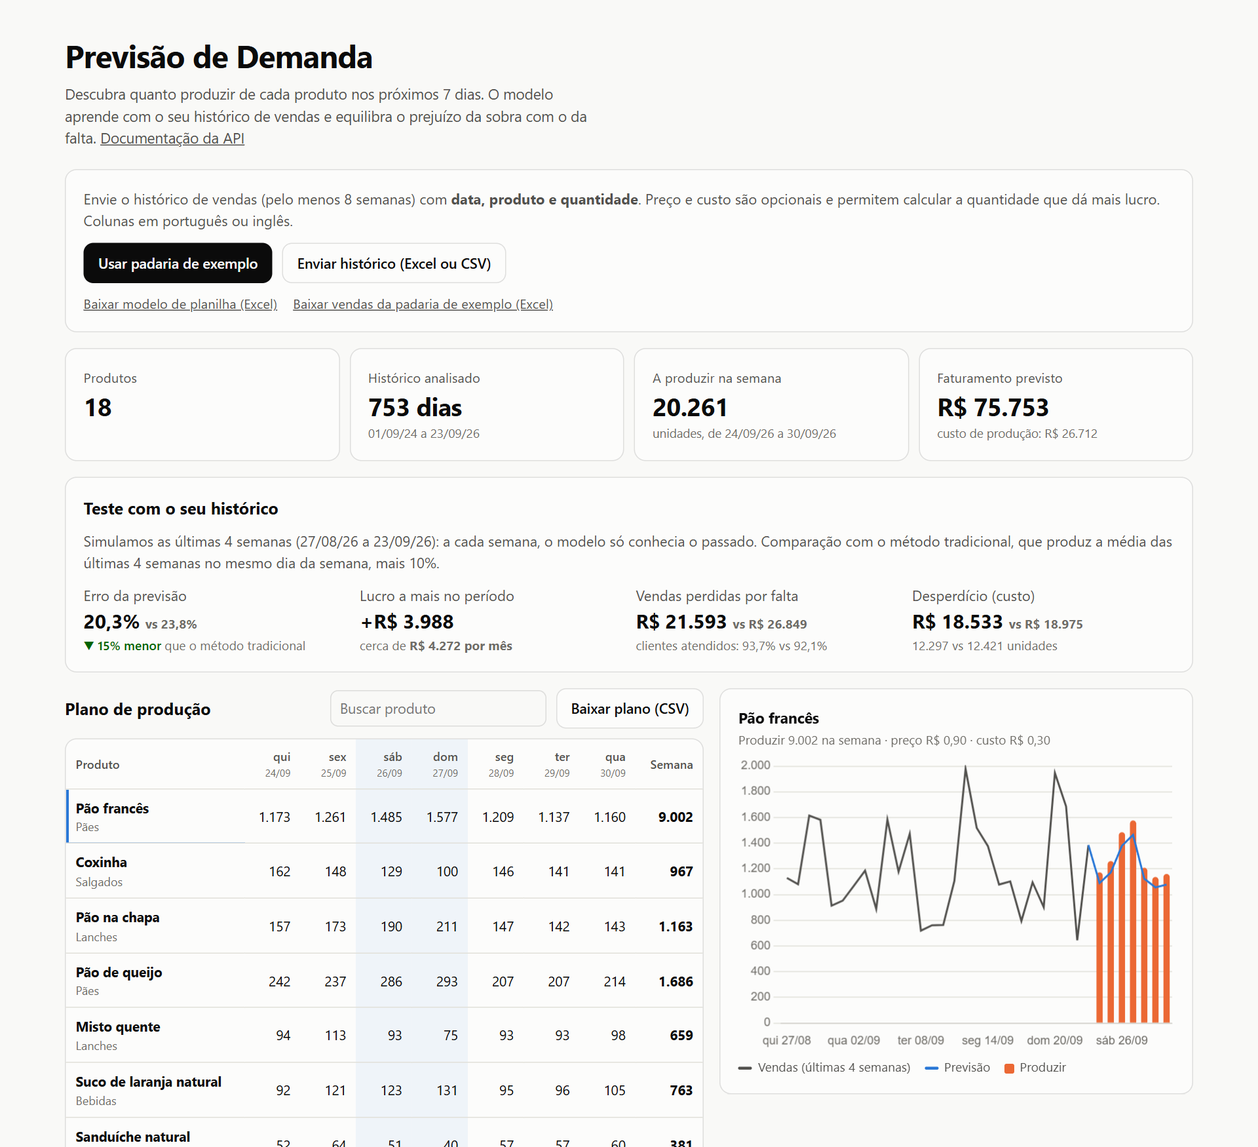
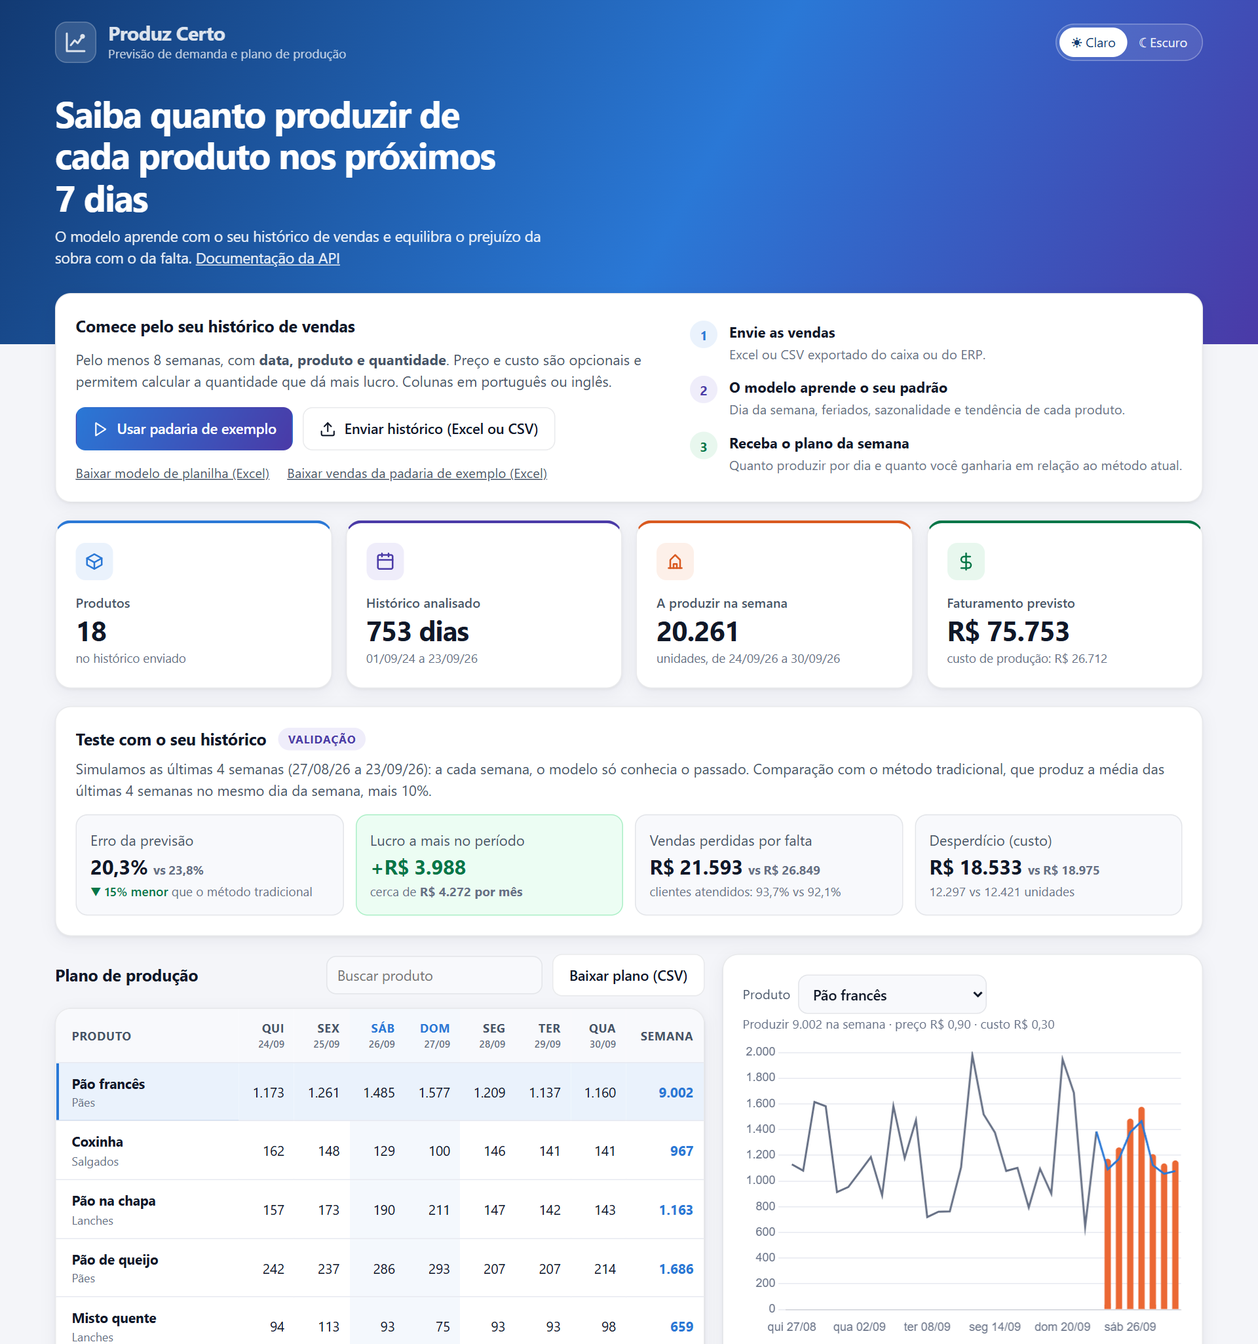
Novo visual: identidade Produz Certo, indicadores coloridos e tema claro ou escuro
Cabeçalho com nome do sistema, tela inicial com os três passos,
indicadores com cor e ícone, destaque para o ganho no teste com o
histórico, lista para escolher o produto do gráfico e botão de tema.

diff --git a/api/static/index.html b/api/static/index.html
@@ -3,116 +3,184 @@
 <head>
 <meta charset="utf-8">
 <meta name="viewport" content="width=device-width, initial-scale=1">
-<title>Previsão de Demanda</title>
+<title>Produz Certo · Previsão de Demanda</title>
 <meta name="description" content="Descubra quanto produzir de cada produto nos próximos 7 dias a partir do seu histórico de vendas.">
 <script>try{const t=localStorage.getItem('tema');if(t)document.documentElement.dataset.theme=t;}catch(e){}</script>
 <style>
 :root{
   color-scheme:light;
-  --page:#f9f9f7; --surface:#fcfcfb; --ink:#0b0b0b; --ink-2:#52514e; --muted:#6f6d68;
-  --line:#e1e0d9; --border:rgba(11,11,11,.12); --s1:#2a78d6; --s2:#eb6834; --hist:#52514e;
-  --good:#006300; --crit:#d03b3b; --wk:rgba(42,120,214,.06);
+  --page:#f4f5f9; --surface:#ffffff; --surface-2:#f8f9fc; --ink:#101828; --ink-2:#475467; --muted:#667085;
+  --line:#e7e9f0; --border:rgba(16,24,40,.09); --shadow:0 1px 2px rgba(16,24,40,.05),0 4px 16px rgba(16,24,40,.06);
+  --brand:#2a78d6; --brand-2:#4a3aa7; --s1:#2a78d6; --s2:#eb6834; --hist:#667085;
+  --good:#067647; --good-bg:#ecfdf3; --good-line:#abefc6; --crit:#d03b3b; --wk:rgba(42,120,214,.05);
+  --t1:#2a78d6; --t1-bg:#eaf2fc; --t2:#4a3aa7; --t2-bg:#efedfa; --t3:#d9591f; --t3-bg:#fdf0e9; --t4:#067647; --t4-bg:#e8f7ee;
+  --hero:linear-gradient(120deg,#123a73 0%,#2a78d6 55%,#4a3aa7 100%);
 }
 @media (prefers-color-scheme:dark){
   :root:where(:not([data-theme="light"])){
     color-scheme:dark;
-    --page:#0d0d0d; --surface:#1a1a19; --ink:#fff; --ink-2:#c3c2b7; --muted:#9a988f;
-    --line:#2c2c2a; --border:rgba(255,255,255,.12); --s1:#3987e5; --s2:#d95926; --hist:#c3c2b7;
-    --good:#0ca30c; --crit:#e66767; --wk:rgba(57,135,229,.10);
+    --page:#0b0c10; --surface:#15171c; --surface-2:#1b1e24; --ink:#f2f4f7; --ink-2:#c3c7cf; --muted:#98a2b3;
+    --line:#262a32; --border:rgba(255,255,255,.08); --shadow:0 1px 2px rgba(0,0,0,.4),0 6px 20px rgba(0,0,0,.35);
+    --brand:#3987e5; --brand-2:#9085e9; --s1:#3987e5; --s2:#d95926; --hist:#98a2b3;
+    --good:#32d583; --good-bg:rgba(50,213,131,.10); --good-line:rgba(50,213,131,.30); --crit:#e66767; --wk:rgba(57,135,229,.08);
+    --t1:#5b9cf0; --t1-bg:rgba(57,135,229,.14); --t2:#a79cf0; --t2-bg:rgba(144,133,233,.14); --t3:#f08a55; --t3-bg:rgba(217,89,38,.16); --t4:#32d583; --t4-bg:rgba(50,213,131,.12);
+    --hero:linear-gradient(120deg,#0d2547 0%,#1c4f93 55%,#3a2f86 100%);
   }
 }
 :root[data-theme="dark"]{
   color-scheme:dark;
-  --page:#0d0d0d; --surface:#1a1a19; --ink:#fff; --ink-2:#c3c2b7; --muted:#9a988f;
-  --line:#2c2c2a; --border:rgba(255,255,255,.12); --s1:#3987e5; --s2:#d95926; --hist:#c3c2b7;
-  --good:#0ca30c; --crit:#e66767; --wk:rgba(57,135,229,.10);
+  --page:#0b0c10; --surface:#15171c; --surface-2:#1b1e24; --ink:#f2f4f7; --ink-2:#c3c7cf; --muted:#98a2b3;
+  --line:#262a32; --border:rgba(255,255,255,.08); --shadow:0 1px 2px rgba(0,0,0,.4),0 6px 20px rgba(0,0,0,.35);
+  --brand:#3987e5; --brand-2:#9085e9; --s1:#3987e5; --s2:#d95926; --hist:#98a2b3;
+  --good:#32d583; --good-bg:rgba(50,213,131,.10); --good-line:rgba(50,213,131,.30); --crit:#e66767; --wk:rgba(57,135,229,.08);
+  --t1:#5b9cf0; --t1-bg:rgba(57,135,229,.14); --t2:#a79cf0; --t2-bg:rgba(144,133,233,.14); --t3:#f08a55; --t3-bg:rgba(217,89,38,.16); --t4:#32d583; --t4-bg:rgba(50,213,131,.12);
+  --hero:linear-gradient(120deg,#0d2547 0%,#1c4f93 55%,#3a2f86 100%);
 }
 *{box-sizing:border-box;margin:0}
 [hidden]{display:none!important}
-body{background:var(--page);color:var(--ink);font:15px/1.5 system-ui,-apple-system,"Segoe UI",sans-serif}
-.wrap{max-width:1180px;margin:0 auto;padding:32px 16px 48px}
-h1{font-size:clamp(1.5rem,3.5vw,2rem);letter-spacing:-.02em}
-h2{font-size:1.05rem;margin-bottom:10px}
-.sub{color:var(--ink-2);margin:4px 0 20px;max-width:68ch}
-.sub a,.links a,footer a{color:var(--ink-2)}
-.card{background:var(--surface);border:1px solid var(--border);border-radius:12px;padding:18px}
+body{background:var(--page);color:var(--ink);font:15px/1.5 "Segoe UI",system-ui,-apple-system,sans-serif}
+.wrap{max-width:1200px;margin:0 auto;padding:0 16px 48px}
+h2{font-size:1.05rem;margin-bottom:10px;letter-spacing:-.01em}
+button{font:inherit;cursor:pointer}
+a{color:inherit}
+
+/* ---------- cabeçalho ---------- */
+.hero{background:var(--hero);color:#fff;padding:22px 0 76px;margin-bottom:-52px}
+.hero .wrap{padding-bottom:0}
+.hero-top{display:flex;justify-content:space-between;align-items:center;gap:12px}
+.marca{display:flex;align-items:center;gap:12px;text-decoration:none}
+.logo{width:42px;height:42px;border-radius:12px;background:rgba(255,255,255,.16);border:1px solid rgba(255,255,255,.25);display:grid;place-items:center}
+.logo svg{width:24px;height:24px}
+.marca b{display:block;font-size:1.25rem;letter-spacing:-.02em;line-height:1.1}
+.marca span{font-size:.8rem;opacity:.85}
+.tema{display:inline-flex;border:1px solid rgba(255,255,255,.28);border-radius:999px;padding:3px;background:rgba(255,255,255,.10)}
+.tema button{border:0;background:none;color:rgba(255,255,255,.9);font-size:.82rem;padding:5px 12px;border-radius:999px}
+.tema button[aria-pressed="true"]{background:#fff;color:#123a73}
+.hero h1{font-size:clamp(1.6rem,3.6vw,2.3rem);letter-spacing:-.03em;line-height:1.15;margin:30px 0 8px;max-width:22ch}
+.hero p{max-width:62ch;opacity:.9}
+.hero p a{color:#fff}
+
+/* ---------- cartões e botões ---------- */
+.card{background:var(--surface);border:1px solid var(--border);border-radius:16px;padding:20px;box-shadow:var(--shadow)}
 .rec{color:var(--ink-2);font-size:.92rem}
 .acoes{display:flex;flex-wrap:wrap;gap:10px;align-items:center}
-button{font:inherit;cursor:pointer}
-.btn{border:1px solid var(--border);background:var(--surface);color:var(--ink);border-radius:10px;padding:9px 14px;font-weight:600;font-size:.9rem}
-.btn.pri{background:var(--ink);color:var(--surface);border-color:var(--ink)}
-.btn:disabled{opacity:.5;cursor:wait}
-.links{display:flex;flex-wrap:wrap;gap:16px;font-size:.85rem;margin-top:10px}
+.btn{display:inline-flex;align-items:center;gap:8px;border:1px solid var(--border);background:var(--surface);color:var(--ink);border-radius:10px;padding:10px 16px;font-weight:600;font-size:.9rem;transition:transform .12s,box-shadow .12s}
+.btn:hover{transform:translateY(-1px);box-shadow:var(--shadow)}
+.btn.pri{background:linear-gradient(120deg,var(--brand),var(--brand-2));color:#fff;border-color:transparent}
+.btn:disabled{opacity:.55;cursor:wait;transform:none}
+.btn svg{width:17px;height:17px}
+.links{display:flex;flex-wrap:wrap;gap:18px;font-size:.85rem;margin-top:12px}
+.links a{color:var(--ink-2)}
 .cont{color:var(--muted);font-size:.8rem}
 .erro{border:1px solid var(--crit);border-radius:10px;padding:10px 12px;margin-top:12px;font-size:.9rem}
-.mapa{margin-top:14px;border-top:1px solid var(--line);padding-top:14px}
+.mapa{margin-top:16px;border-top:1px solid var(--line);padding-top:16px}
 .fields{display:grid;grid-template-columns:repeat(auto-fit,minmax(200px,1fr));gap:10px;margin:12px 0}
 label{display:grid;gap:4px;font-size:.82rem;color:var(--ink-2)}
-select,input{font:inherit;font-size:.9rem;color:var(--ink);background:var(--page);border:1px solid var(--border);border-radius:8px;padding:7px 9px;width:100%}
-.kpis{display:grid;grid-template-columns:repeat(auto-fit,minmax(190px,1fr));gap:10px;margin:16px 0}
-.kpi .lbl{color:var(--ink-2);font-size:.85rem}
-.kpi .v{font-size:1.6rem;font-weight:700;letter-spacing:-.02em}
+select,input{font:inherit;font-size:.9rem;color:var(--ink);background:var(--surface-2);border:1px solid var(--border);border-radius:10px;padding:8px 10px;width:100%}
+.envio{display:grid;grid-template-columns:minmax(0,1.2fr) minmax(0,1fr);gap:24px;align-items:center}
+.passos{display:grid;gap:12px;list-style:none;padding:0}
+.passos li{display:flex;gap:12px;align-items:flex-start}
+.passos .n{flex:0 0 28px;height:28px;border-radius:50%;display:grid;place-items:center;font-weight:700;font-size:.85rem;background:var(--t1-bg);color:var(--t1)}
+.passos li:nth-child(2) .n{background:var(--t2-bg);color:var(--t2)}
+.passos li:nth-child(3) .n{background:var(--t4-bg);color:var(--t4)}
+.passos b{display:block;font-size:.92rem}
+.passos span{color:var(--muted);font-size:.84rem}
+.carregando{display:flex;gap:10px;align-items:center;color:var(--ink-2);margin-top:16px}
+.spin{width:16px;height:16px;border:2px solid var(--line);border-top-color:var(--brand);border-radius:50%;animation:g 1s linear infinite}
+@keyframes g{to{transform:rotate(360deg)}}
+
+/* ---------- indicadores ---------- */
+.kpis{display:grid;grid-template-columns:repeat(auto-fit,minmax(210px,1fr));gap:14px;margin:18px 0}
+.kpi{position:relative;overflow:hidden;border-top:3px solid var(--c)}
+.kpi .ico{width:38px;height:38px;border-radius:10px;display:grid;place-items:center;background:var(--cb);color:var(--c);margin-bottom:12px}
+.kpi .ico svg{width:20px;height:20px}
+.kpi .lbl{color:var(--ink-2);font-size:.84rem;font-weight:600}
+.kpi .v{font-size:1.75rem;font-weight:700;letter-spacing:-.02em;line-height:1.2;margin:2px 0}
 .kpi .d{color:var(--muted);font-size:.78rem}
-.comp{margin-bottom:16px}
-.comp-grid{display:grid;grid-template-columns:repeat(auto-fit,minmax(210px,1fr));gap:14px;margin-top:10px}
-.comp-grid .v{font-size:1.25rem;font-weight:700}
+.kpi.c1{--c:var(--t1);--cb:var(--t1-bg)} .kpi.c2{--c:var(--t2);--cb:var(--t2-bg)}
+.kpi.c3{--c:var(--t3);--cb:var(--t3-bg)} .kpi.c4{--c:var(--t4);--cb:var(--t4-bg)}
+
+/* ---------- teste com o histórico ---------- */
+.comp{margin-bottom:18px}
+.comp-cab{display:flex;gap:12px;align-items:center;margin-bottom:6px}
+.selo{font-size:.72rem;font-weight:700;letter-spacing:.04em;text-transform:uppercase;color:var(--t2);background:var(--t2-bg);border-radius:999px;padding:3px 10px}
+.comp-grid{display:grid;grid-template-columns:repeat(auto-fit,minmax(220px,1fr));gap:12px;margin-top:14px}
+.comp-grid>div{background:var(--surface-2);border:1px solid var(--border);border-radius:12px;padding:14px}
+.comp-grid .destaque{background:var(--good-bg);border-color:var(--good-line)}
+.comp-grid .destaque .v{color:var(--good)}
+.comp-grid .v{font-size:1.3rem;font-weight:700;letter-spacing:-.01em}
 .comp-grid .d{color:var(--muted);font-size:.8rem}
 .up{color:var(--good);font-weight:600}
-.grid2{display:grid;grid-template-columns:minmax(0,1.35fr) minmax(0,1fr);gap:16px;align-items:start}
-.barra{display:flex;flex-wrap:wrap;gap:10px;align-items:center;justify-content:space-between;margin-bottom:10px}
+
+/* ---------- plano e gráfico ---------- */
+.grid2{display:grid;grid-template-columns:minmax(0,1.35fr) minmax(0,1fr);gap:18px;align-items:start}
+.barra{display:flex;flex-wrap:wrap;gap:10px;align-items:center;justify-content:space-between;margin-bottom:12px}
 .busca{width:220px}
-.tbl{overflow-x:auto;border:1px solid var(--border);border-radius:12px;background:var(--surface)}
+.tbl{overflow-x:auto;border:1px solid var(--border);border-radius:16px;background:var(--surface);box-shadow:var(--shadow)}
 table{width:100%;border-collapse:collapse;font-size:.86rem}
-th,td{padding:8px 10px;border-bottom:1px solid var(--line);text-align:right;white-space:nowrap}
-th:first-child,td:first-child{text-align:left;white-space:normal}
-th{color:var(--ink-2);font-size:.76rem;font-weight:600}
-th small{display:block;font-weight:400;color:var(--muted)}
+th,td{padding:10px 10px;border-bottom:1px solid var(--line);text-align:right;white-space:nowrap}
+th:first-child,td:first-child{text-align:left;white-space:normal;padding-left:16px}
+th{color:var(--ink-2);font-size:.76rem;font-weight:700;background:var(--surface-2);text-transform:uppercase;letter-spacing:.03em}
+th small{display:block;font-weight:500;color:var(--muted);text-transform:none;letter-spacing:0}
 td,th{font-variant-numeric:tabular-nums}
 .fds{background:var(--wk)}
-tbody tr{cursor:pointer}
+th.fds{color:var(--brand)}
+tbody tr{cursor:pointer;transition:background .12s}
 tbody tr:hover td{background:var(--wk)}
-tbody tr[aria-selected="true"] td:first-child{box-shadow:inset 3px 0 0 var(--s1)}
+tbody tr[aria-selected="true"] td{background:var(--t1-bg)}
+tbody tr[aria-selected="true"] td:first-child{box-shadow:inset 3px 0 0 var(--brand)}
 tr:last-child td{border-bottom:0}
-td.tot{font-weight:700}
+td.tot{font-weight:700;color:var(--brand)}
 .cat{display:block;color:var(--muted);font-size:.75rem}
 .graf{position:sticky;top:16px}
-.graf h3{font-size:.95rem}
-.box{position:relative;height:300px;margin-top:8px}
-.legenda{display:flex;flex-wrap:wrap;gap:14px;font-size:.8rem;color:var(--ink-2);margin-top:6px}
+.graf-topo{display:flex;gap:10px;align-items:center;justify-content:space-between;flex-wrap:wrap}
+.graf-topo select{width:auto;max-width:100%;font-weight:600}
+.box{position:relative;height:300px;margin-top:10px}
+.legenda{display:flex;flex-wrap:wrap;gap:14px;font-size:.8rem;color:var(--ink-2);margin-top:8px}
 .legenda i{display:inline-block;width:14px;height:3px;border-radius:2px;vertical-align:middle;margin-right:6px}
 .legenda i.bar{height:10px;width:10px;border-radius:2px}
 .dica{color:var(--muted);font-size:.8rem;margin-top:8px}
-.carregando{display:flex;gap:10px;align-items:center;color:var(--ink-2);margin-top:16px}
-.spin{width:16px;height:16px;border:2px solid var(--line);border-top-color:var(--s1);border-radius:50%;animation:g 1s linear infinite}
-@keyframes g{to{transform:rotate(360deg)}}
-footer{margin-top:28px;color:var(--muted);font-size:.8rem;max-width:90ch}
-.topo{display:flex;justify-content:space-between;align-items:flex-start;gap:12px}
-.tema{display:inline-flex;border:1px solid var(--border);border-radius:999px;padding:3px;background:var(--surface);flex:0 0 auto}
-.tema button{border:0;background:none;color:var(--ink-2);font-size:.82rem;padding:5px 12px;border-radius:999px}
-.tema button[aria-pressed="true"]{background:var(--ink);color:var(--surface)}
-.graf-topo{display:flex;gap:10px;align-items:center;justify-content:space-between;flex-wrap:wrap}
-.graf-topo select{width:auto;max-width:100%;font-weight:600}
-@media (max-width:900px){.grid2{grid-template-columns:1fr}.graf{position:static}}
+footer{margin-top:32px;padding-top:18px;border-top:1px solid var(--line);color:var(--muted);font-size:.8rem;display:flex;flex-wrap:wrap;gap:8px 24px;justify-content:space-between}
+footer p{max-width:80ch}
+@media (max-width:900px){.grid2,.envio{grid-template-columns:1fr}.graf{position:static}}
 </style>
 </head>
 <body>
-<div class="wrap">
-  <div class="topo">
-    <h1>Previsão de Demanda</h1>
-    <div class="tema" role="group" aria-label="Tema">
-      <button type="button" data-tema="light">☀ Claro</button>
-      <button type="button" data-tema="dark">☾ Escuro</button>
+<header class="hero">
+  <div class="wrap">
+    <div class="hero-top">
+      <a class="marca" href="/">
+        <span class="logo"><svg viewBox="0 0 24 24" fill="none" stroke="#fff" stroke-width="2" stroke-linecap="round" stroke-linejoin="round"><path d="M3 3v18h18"/><path d="M7 15l4-5 3 3 5-7"/><circle cx="19" cy="6" r="1.4" fill="#fff"/></svg></span>
+        <span><b>Produz Certo</b><span>Previsão de demanda e plano de produção</span></span>
+      </a>
+      <div class="tema" role="group" aria-label="Tema">
+        <button type="button" data-tema="light">☀ Claro</button>
+        <button type="button" data-tema="dark">☾ Escuro</button>
+      </div>
     </div>
+    <h1>Saiba quanto produzir de cada produto nos próximos 7 dias</h1>
+    <p>O modelo aprende com o seu histórico de vendas e equilibra o prejuízo da sobra com o da falta. <a href="/docs">Documentação da API</a></p>
   </div>
-  <p class="sub">Descubra quanto produzir de cada produto nos próximos 7 dias. O modelo aprende com o seu histórico de vendas e equilibra o prejuízo da sobra com o da falta. <a href="/docs">Documentação da API</a></p>
+</header>
 
+<div class="wrap">
   <div class="card">
-    <p class="rec" style="margin-bottom:12px">Envie o histórico de vendas (pelo menos 8 semanas) com <strong>data, produto e quantidade</strong>. Preço e custo são opcionais e permitem calcular a quantidade que dá mais lucro. Colunas em português ou inglês.</p>
-    <div class="acoes">
-      <button class="btn pri" id="usar-exemplo">Usar padaria de exemplo</button>
-      <label class="btn" style="display:inline-flex;cursor:pointer">Enviar histórico (Excel ou CSV)<input type="file" id="arquivo" accept=".xlsx,.xls,.csv,text/csv" hidden></label>
+    <div class="envio">
+      <div>
+        <h2>Comece pelo seu histórico de vendas</h2>
+        <p class="rec" style="margin-bottom:16px">Pelo menos 8 semanas, com <strong>data, produto e quantidade</strong>. Preço e custo são opcionais e permitem calcular a quantidade que dá mais lucro. Colunas em português ou inglês.</p>
+        <div class="acoes">
+          <button class="btn pri" id="usar-exemplo"><svg viewBox="0 0 24 24" fill="none" stroke="currentColor" stroke-width="2" stroke-linecap="round" stroke-linejoin="round"><path d="M5 3l14 9-14 9V3z"/></svg>Usar padaria de exemplo</button>
+          <label class="btn" style="cursor:pointer"><svg viewBox="0 0 24 24" fill="none" stroke="currentColor" stroke-width="2" stroke-linecap="round" stroke-linejoin="round"><path d="M21 15v4a2 2 0 0 1-2 2H5a2 2 0 0 1-2-2v-4"/><path d="M17 8l-5-5-5 5"/><path d="M12 3v12"/></svg>Enviar histórico (Excel ou CSV)<input type="file" id="arquivo" accept=".xlsx,.xls,.csv,text/csv" hidden></label>
+        </div>
+        <div class="links"><a href="/modelo-planilha.xlsx">Baixar modelo de planilha (Excel)</a><a href="/base-exemplo.xlsx">Baixar vendas da padaria de exemplo (Excel)</a></div>
+      </div>
+      <ol class="passos">
+        <li><span class="n">1</span><div><b>Envie as vendas</b><span>Excel ou CSV exportado do caixa ou do ERP.</span></div></li>
+        <li><span class="n">2</span><div><b>O modelo aprende o seu padrão</b><span>Dia da semana, feriados, sazonalidade e tendência de cada produto.</span></div></li>
+        <li><span class="n">3</span><div><b>Receba o plano da semana</b><span>Quanto produzir por dia e quanto você ganharia em relação ao método atual.</span></div></li>
+      </ol>
     </div>
-    <div class="links"><a href="/modelo-planilha.xlsx">Baixar modelo de planilha (Excel)</a><a href="/base-exemplo.xlsx">Baixar vendas da padaria de exemplo (Excel)</a></div>
     <div class="erro" id="erro" hidden></div>
     <form class="mapa" id="mapa" hidden>
       <h2>Correspondência de colunas</h2>
@@ -157,7 +225,10 @@ footer{margin-top:28px;color:var(--muted);font-size:.8rem;max-width:90ch}
     </div>
   </div>
 
-  <footer>Como funciona: um modelo LightGBM aprende, com o histórico enviado, o padrão de cada produto por dia da semana, feriados, sazonalidade e tendência. A quantidade recomendada fica um pouco acima ou abaixo da previsão conforme a margem do produto: quando a margem é alta, faltar custa mais do que sobrar. A padaria de exemplo tem dados fictícios.</footer>
+  <footer>
+    <p>Como funciona: um modelo LightGBM aprende, com o histórico enviado, o padrão de cada produto por dia da semana, feriados, sazonalidade e tendência. A quantidade recomendada fica um pouco acima ou abaixo da previsão conforme a margem do produto: quando a margem é alta, faltar custa mais do que sobrar. A padaria de exemplo tem dados fictícios.</p>
+    <span>Produz Certo · <a href="https://github.com/myttrindade/previsao-demanda">código no GitHub</a></span>
+  </footer>
 </div>
 
 <script src="https://cdn.jsdelivr.net/npm/chart.js@4.4.4/dist/chart.umd.min.js"></script>
@@ -250,22 +321,24 @@ $('mapa').addEventListener('submit', e => {
   executar('/planejar', '/comparar', () => ({method: 'POST', body: formulario()}));
 });
 
+const ICONES = {"produtos": "<path d=\"M21 8l-9-5-9 5 9 5 9-5z\"/><path d=\"M3 8v8l9 5 9-5V8\"/><path d=\"M12 13v8\"/>", "historico": "<rect x=\"3\" y=\"4\" width=\"18\" height=\"17\" rx=\"2\"/><path d=\"M16 2v4M8 2v4M3 10h18\"/>", "produzir": "<path d=\"M4 20h16\"/><path d=\"M6 20V10l6-6 6 6v10\"/><path d=\"M10 20v-5h4v5\"/>", "faturamento": "<path d=\"M12 2v20\"/><path d=\"M17 6H9.5a3.5 3.5 0 0 0 0 7h5a3.5 3.5 0 0 1 0 7H6\"/>"};
 function desenharResumo() {
   const r = plano.resumo;
   const tiles = [
-    ['Produtos', num(r.produtos), ''],
-    ['Histórico analisado', `${num(r.dias_historico)} dias`, `${dataBR(r.historico_inicio)} a ${dataBR(r.historico_fim)}`],
-    ['A produzir na semana', num(r.total_produzir), `unidades, de ${dataBR(plano.dias[0])} a ${dataBR(plano.dias.at(-1))}`],
+    ['c1', 'produtos', 'Produtos', num(r.produtos), 'no histórico enviado'],
+    ['c2', 'historico', 'Histórico analisado', `${num(r.dias_historico)} dias`, `${dataBR(r.historico_inicio)} a ${dataBR(r.historico_fim)}`],
+    ['c3', 'produzir', 'A produzir na semana', num(r.total_produzir), `unidades, de ${dataBR(plano.dias[0])} a ${dataBR(plano.dias.at(-1))}`],
   ];
-  if (r.tem_precos) tiles.push(['Faturamento previsto', brl(r.faturamento_previsto), `custo de produção: ${brl(r.custo_producao)}`]);
-  $('kpis').innerHTML = tiles.map(([l, v, d]) =>
-    `<div class="card kpi"><div class="lbl">${l}</div><div class="v">${v}</div><div class="d">${d}</div></div>`).join('');
+  if (r.tem_precos) tiles.push(['c4', 'faturamento', 'Faturamento previsto', brl(r.faturamento_previsto), `custo de produção: ${brl(r.custo_producao)}`]);
+  $('kpis').innerHTML = tiles.map(([cor, ico, l, v, d]) => `<div class="card kpi ${cor}">
+      <div class="ico"><svg viewBox="0 0 24 24" fill="none" stroke="currentColor" stroke-width="2" stroke-linecap="round" stroke-linejoin="round">${ICONES[ico]}</svg></div>
+      <div class="lbl">${l}</div><div class="v">${v}</div><div class="d">${d}</div></div>`).join('');
 }
 
 function desenharComparacao(c) {
-  if (!c.disponivel) { $('comparacao').innerHTML = `<h2>Teste com o seu histórico</h2><p class="rec">${esc(c.motivo)}</p>`; return; }
+  if (!c.disponivel) { $('comparacao').innerHTML = `<div class="comp-cab"><h2 style="margin:0">Teste com o seu histórico</h2><span class="selo">Validação</span></div><p class="rec">${esc(c.motivo)}</p>`; return; }
   const melhora = (c.erro_tradicional - c.erro_modelo) / c.erro_tradicional;
-  let html = `<h2>Teste com o seu histórico</h2>
+  let html = `<div class="comp-cab"><h2 style="margin:0">Teste com o seu histórico</h2><span class="selo">Validação</span></div>
     <p class="rec">Simulamos as últimas ${c.semanas} semanas (${dataBR(c.periodo[0])} a ${dataBR(c.periodo[1])}): a cada semana, o modelo só conhecia o passado. Comparação com o método tradicional, que produz a média das últimas 4 semanas no mesmo dia da semana, mais 10%.</p>
     <div class="comp-grid">
       <div><div class="lbl rec">Erro da previsão</div><div class="v">${pct(c.erro_modelo)} <span class="cont">vs ${pct(c.erro_tradicional)}</span></div>
@@ -273,7 +346,7 @@ function desenharComparacao(c) {
   if (c.tem_precos) {
     const t = c.tradicional, m = c.modelo;
     html += `
-      <div><div class="lbl rec">Lucro a mais no período</div><div class="v">${c.ganho_periodo >= 0 ? '+' : ''}${brl(c.ganho_periodo)}</div>
+      <div class="${c.ganho_periodo > 0 ? 'destaque' : ''}"><div class="lbl rec">Lucro a mais no período</div><div class="v">${c.ganho_periodo >= 0 ? '+' : ''}${brl(c.ganho_periodo)}</div>
         <div class="d">cerca de <strong>${brl(c.ganho_mensal_estimado)} por mês</strong></div></div>
       <div><div class="lbl rec">Vendas perdidas por falta</div><div class="v">${brl(m.vendas_perdidas_rs)} <span class="cont">vs ${brl(t.vendas_perdidas_rs)}</span></div>
         <div class="d">clientes atendidos: ${pct(m.atendimento)} vs ${pct(t.atendimento)}</div></div>

diff --git a/README.md b/README.md
@@ -1,4 +1,4 @@
-# 🥖 Previsão de Demanda: quanto produzir amanhã
+# 🥖 Produz Certo: previsão de demanda e plano de produção
 
 Sistema que prevê as vendas dos próximos 7 dias de cada produto e recomenda **quanto produzir**, equilibrando o prejuízo da sobra (produto jogado fora) com o da falta (cliente que vai embora sem comprar). O modelo é **treinado com o histórico de vendas da própria empresa**, na hora em que ela envia a planilha.
 
